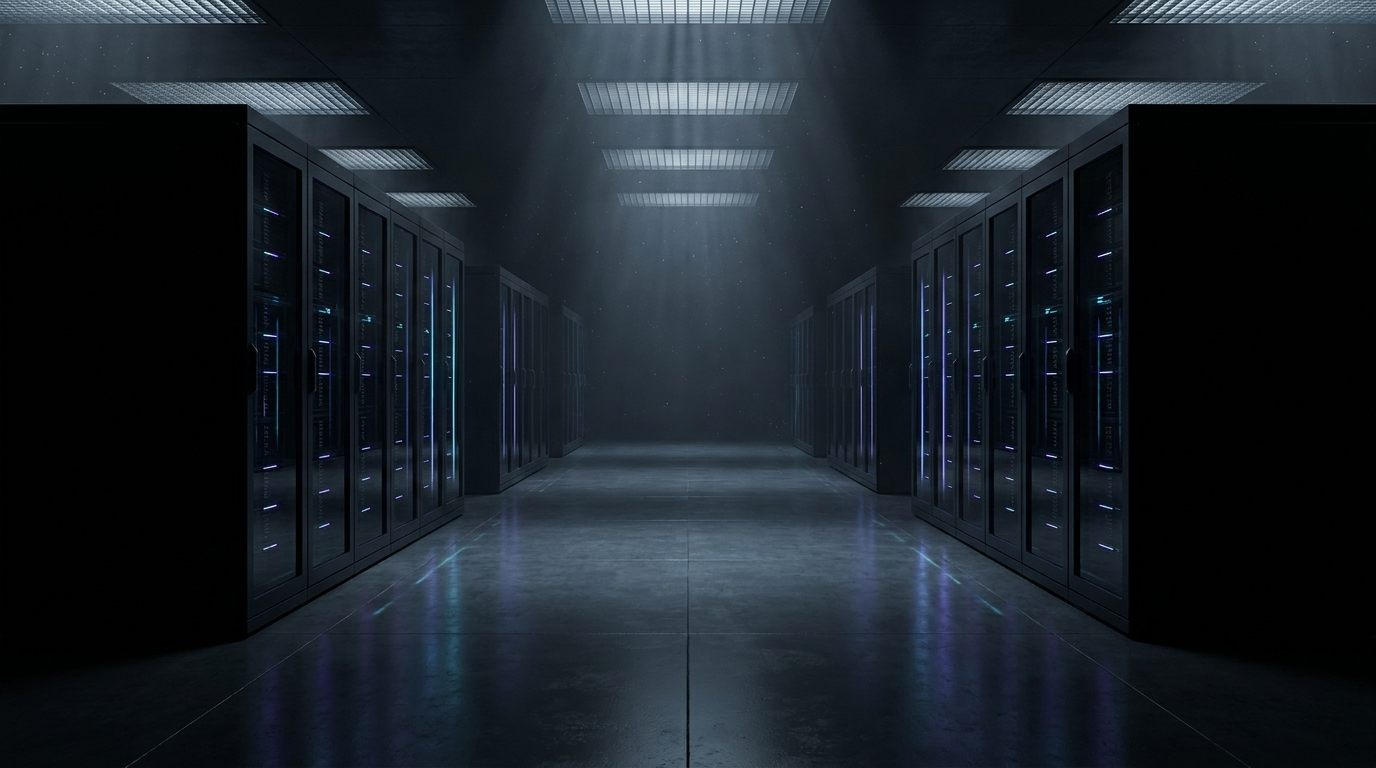
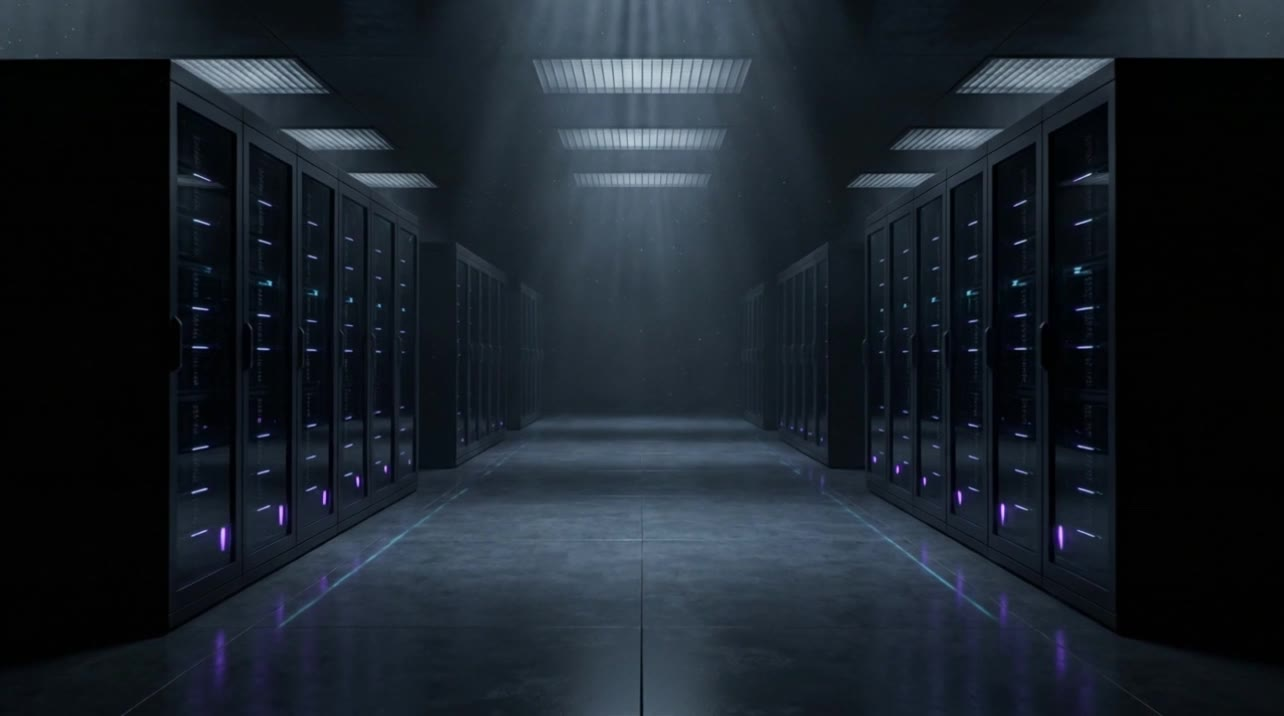
Mobile: Roboter unter Hero-Text + laedt (Cutout), Scroll-Videos auf Mobil als fluessiger Autoplay-Loop statt Scrub (smooth scroll); Videos via scrollan-Pipeline 60fps-interpoliert + dichte Keyframes (hochwertiger UND kleiner -> schneller laden)

diff --git a/static/js/main.js b/static/js/main.js
@@ -21,7 +21,18 @@
     if (!video) return;
     const steps = Array.prototype.slice.call(scrolly.querySelectorAll(".scrolly-step"));
     const ctx = { scrolly, video, bar, steps, duration: 0, ready: false, current: 0 };
-    if (reduce) { if (steps[0]) steps[0].classList.add("is-active"); return; }
+    if (steps[0]) steps[0].classList.add("is-active");
+    if (reduce) return;                                   // Reduced-Motion: nur Poster + Text
+    // Mobil: KEIN Scroll-Scrubbing (ruckelt). Stattdessen sanfter, leiser Autoplay-Loop,
+    // der nur läuft, während die Sektion sichtbar ist -> flüssiges Scrollen, hochwertige Optik.
+    if (window.matchMedia("(max-width: 980px)").matches) {
+      video.loop = true; video.muted = true; video.setAttribute("playsinline", "");
+      new IntersectionObserver(function (en) {
+        if (en[0].isIntersecting) { video.preload = "auto"; const p = video.play(); if (p && p.catch) p.catch(function () {}); }
+        else { try { video.pause(); } catch (e) {} }
+      }, { threshold: 0.25 }).observe(scrolly);
+      return;
+    }
     video.addEventListener("loadedmetadata", function () { ctx.duration = video.duration || 0; });
     // Frame-genaues Seeking erst freigeben, NACHDEM das Video durch play+pause aktiviert
     // wurde. Sonst ignoriert der Browser gesetzte currentTime-Werte (Seek-Sperre).
@@ -106,7 +117,7 @@
         return !!(window.WebGLRenderingContext && (c.getContext("webgl") || c.getContext("experimental-webgl")));
       } catch (e) { return false; }
     })();
-    const isMobile = window.matchMedia("(max-width: 767px)").matches;
+    const isMobile = window.matchMedia("(max-width: 980px)").matches;
     if (reduce || !hasWebGL || isMobile) return;           // Fallback-Bild (Cutout) bleibt sichtbar
     const canvas = document.getElementById("robotCanvas");
     const loader = document.getElementById("robotLoader");

diff --git a/static/css/style.css b/static/css/style.css
@@ -362,10 +362,17 @@ body::before{content:"";position:fixed;inset:0;z-index:-2;pointer-events:none;
 
 /* ── Responsive ──────────────────────────────────────────────────────────── */
 @media (max-width:980px){
-  .hero-grid{grid-template-columns:1fr;gap:0}
-  .hero-figure{position:absolute;inset:0 -10% 0 auto;width:62%;height:100%;opacity:.5;justify-self:end;z-index:-1}
+  /* Hero gestapelt: Text oben, Roboter (Cutout) darunter im Fluss, voll sichtbar */
+  .hero{min-height:auto;padding:104px 0 44px}
+  .hero-grid{grid-template-columns:1fr;gap:18px}
+  .hero-figure{position:relative;inset:auto;justify-self:center;align-self:auto;width:min(82%,360px);height:clamp(300px,46vh,440px);opacity:1;z-index:1}
+  .robot-stage{width:100%}
   .hero-price-chip{display:none}
   .hero-copy{max-width:none}
+  /* Scroll-Sektionen: kein langes Scrubbing auf Mobil -> normale Höhe (Autoplay-Loop per JS) */
+  .scrolly{height:auto}
+  .scrolly-sticky{position:relative;height:clamp(440px,72vh,580px)}
+  .scrolly-step{position:absolute}
   .bento{grid-template-columns:repeat(2,1fr)}.b-lg{grid-row:span 1}
   .quotes{grid-template-columns:1fr;max-width:560px;margin-inline:auto}
   .showcase{grid-template-columns:1fr}.showcase-visual{order:-1;height:240px}
@@ -384,7 +391,7 @@ body::before{content:"";position:fixed;inset:0;z-index:-2;pointer-events:none;
   .bento{grid-template-columns:1fr}.b-wide{grid-column:span 1}
   .f-row{grid-template-columns:1fr}.foot-nav{grid-template-columns:1fr 1fr}
   .contact-methods{grid-template-columns:1fr}
-  .hero{min-height:auto;padding:104px 0 72px}.hero-figure{opacity:.32}
+  .hero{padding:96px 0 52px}.hero-figure{width:min(86%,300px);height:clamp(260px,42vh,360px)}
 }
 @media (prefers-reduced-motion:reduce){
   *{animation:none!important;transition:none!important;scroll-behavior:auto}